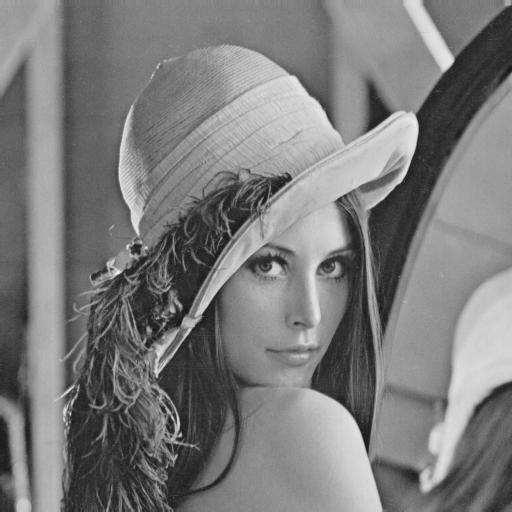
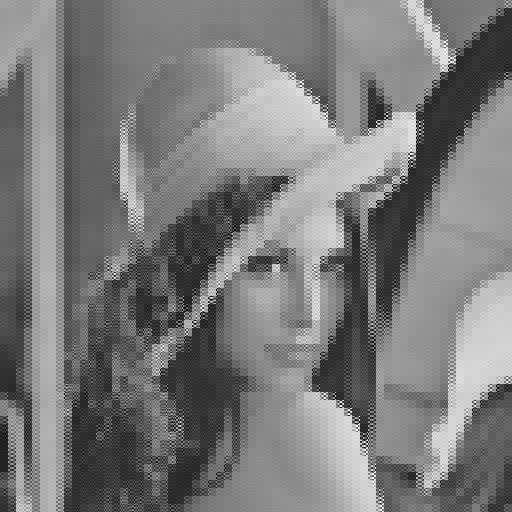
DCT-8 update

diff --git a/DCT-average/DCT-avg.py b/DCT-average/DCT-avg.py
@@ -16,10 +16,6 @@ def get_8x8_dct(block):
 def get_8x8_idct(coefficients):
     return fftpack.idct(fftpack.idct(coefficients.T, norm='ortho').T, norm='ortho')
 
-def zigzag_scan(coefficients):
-    zz = np.concatenate([np.diagonal(coefficients[::-1,:], i)[::(2*(i%2)-1)] for i in range(1-coefficients.shape[0], coefficients.shape[0])])
-    return zz
-
 def get_reconstructed_image(raw):
     img = raw.clip(0, 255)
     img = img.astype('uint8')
@@ -37,15 +33,9 @@ if __name__ == "__main__":
             block = pixels[i:i+block_size, j:j+block_size]
             dct_block = get_8x8_dct(block)
 
-            # Perform zigzag scan and keep top-k coefficients
-            zigzag_coeffs = zigzag_scan(dct_block)
-            k = 8  # Number of coefficients to keep
-            zigzag_coeffs[k:] = 0
-
-            # Reconstruct the block from zigzag coefficients
-            dct_block = np.zeros_like(dct_block)
-            sorted_indices = np.unravel_index(np.argsort(np.abs(dct_block), axis=None), dct_block.shape)
-            dct_block[sorted_indices[0][:k], sorted_indices[1][:k]] = zigzag_coeffs[:k]
+            # Keep top-left 8 coefficients, set others to 0
+            dct_block[8:, :] = 0
+            dct_block[:, 8:] = 0
 
             reconstructed_block = get_8x8_idct(dct_block)
             pixels[i:i+block_size, j:j+block_size] = reconstructed_block
